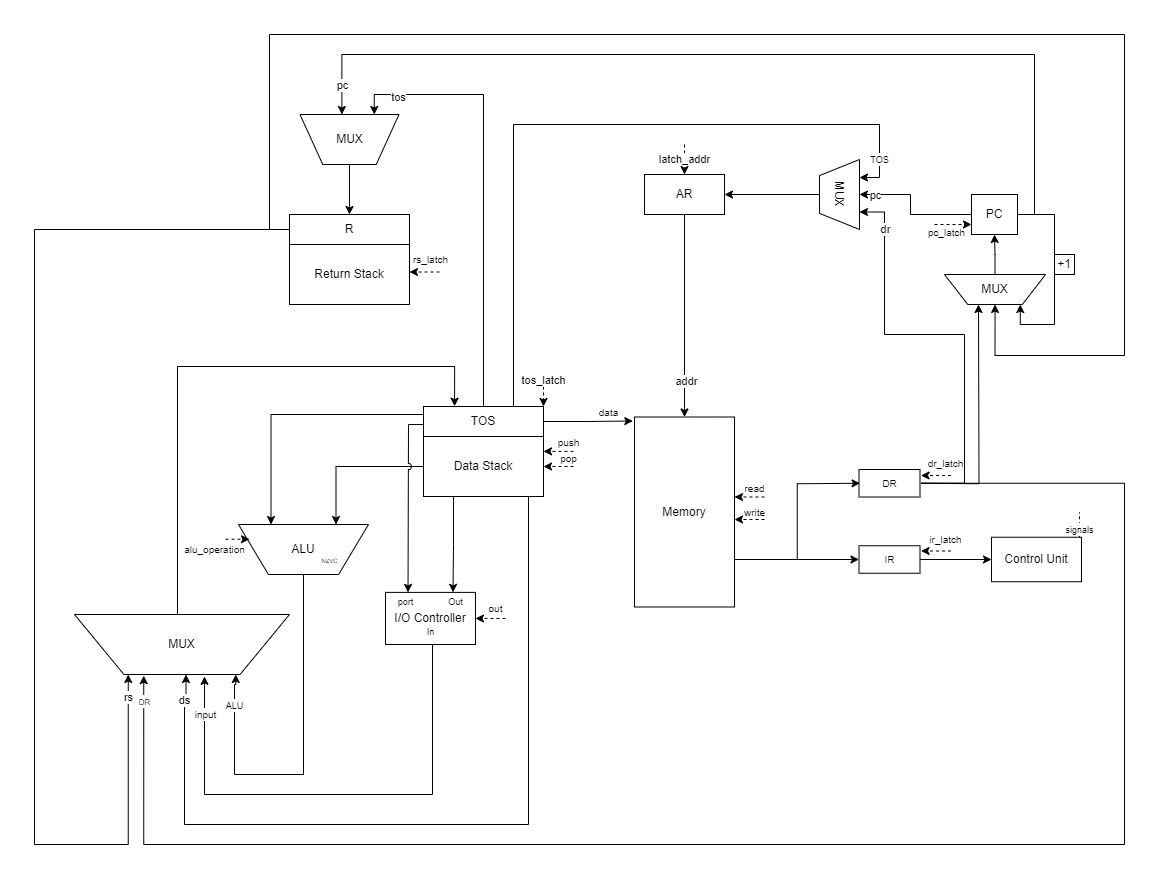
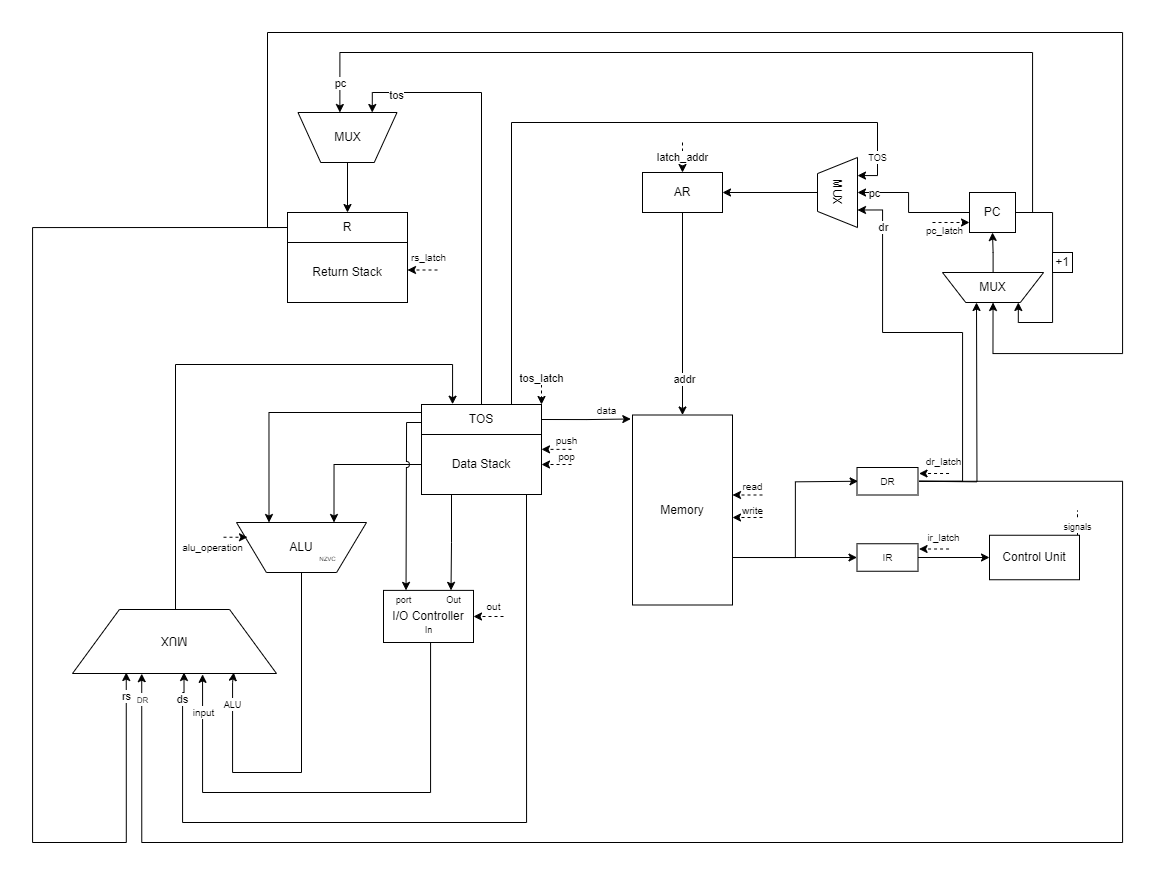
refactor

diff --git a/README.md b/README.md
@@ -371,14 +371,14 @@ pytest experiment/golden.py --regen     # пересоздать эталоны 
 
 | Файл                | Описание                                                                       |
 |:--------------------|:-------------------------------------------------------------------------------|
-| [hello.yaml](experiment/golden/hello.yaml)                | `(print "Hello, world!")` — вывод строки                                       |
-| [cat.yaml](experiment/golden/cat.yaml)                    | чтение строки (`read_str`), вывод, переприсваивание строкового литерала        |
-| [hello_user_name.yaml](experiment/golden/hello_user_name.yaml) | диалог: приветствие с именем пользователя                                      |
-| [sort.yaml](experiment/golden/sort.yaml)                  | пузырьковая сортировка массива чисел из ввода                                  |
-| [double_arith.yaml](experiment/golden/double_arith.yaml)  | 64-битное сложение: 2×32-битные лимбы, перенос через флаг `C` и команду `addc` |
-| [expr.yaml](experiment/golden/expr.yaml)                  | выражения как значения (`set` и `if` возвращают результат)                     |
-| [factorial.yaml](experiment/golden/factorial.yaml)        | рекурсивный факториал — проверка вызовов `call`/`ret`                          |
-| [prob1.yaml](experiment/golden/prob1.yaml)                | Euler Problem 4: наибольшее палиндромное произведение двух трёхзначных         |
+| [hello.yaml](golden/hello.yaml)                | `(print "Hello, world!")` — вывод строки                                       |
+| [cat.yaml](golden/cat.yaml)                    | чтение строки (`read_str`), вывод, переприсваивание строкового литерала        |
+| [hello_user_name.yaml](golden/hello_user_name.yaml) | диалог: приветствие с именем пользователя                                      |
+| [sort.yaml](golden/sort.yaml)                  | пузырьковая сортировка массива чисел из ввода                                  |
+| [double_arith.yaml](golden/double_arith.yaml)  | 64-битное сложение: 2×32-битные лимбы, перенос через флаг `C` и команду `addc` |
+| [expr.yaml](golden/expr.yaml)                  | выражения как значения (`set` и `if` возвращают результат)                     |
+| [factorial.yaml](golden/factorial.yaml)        | рекурсивный факториал — проверка вызовов `call`/`ret`                          |
+| [prob1.yaml](golden/prob1.yaml)                | Euler Problem 4: наибольшее палиндромное произведение двух трёхзначных         |
 
 ```text
              старший      младший